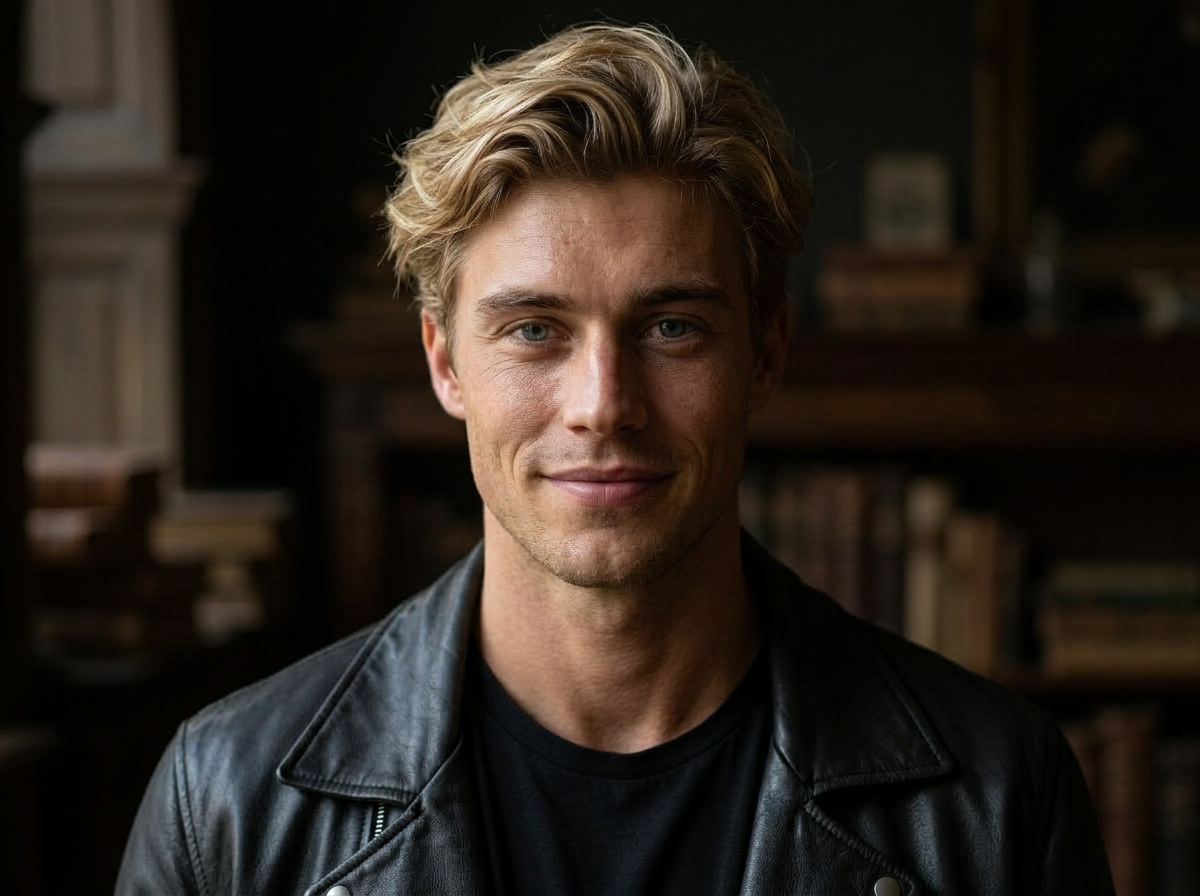
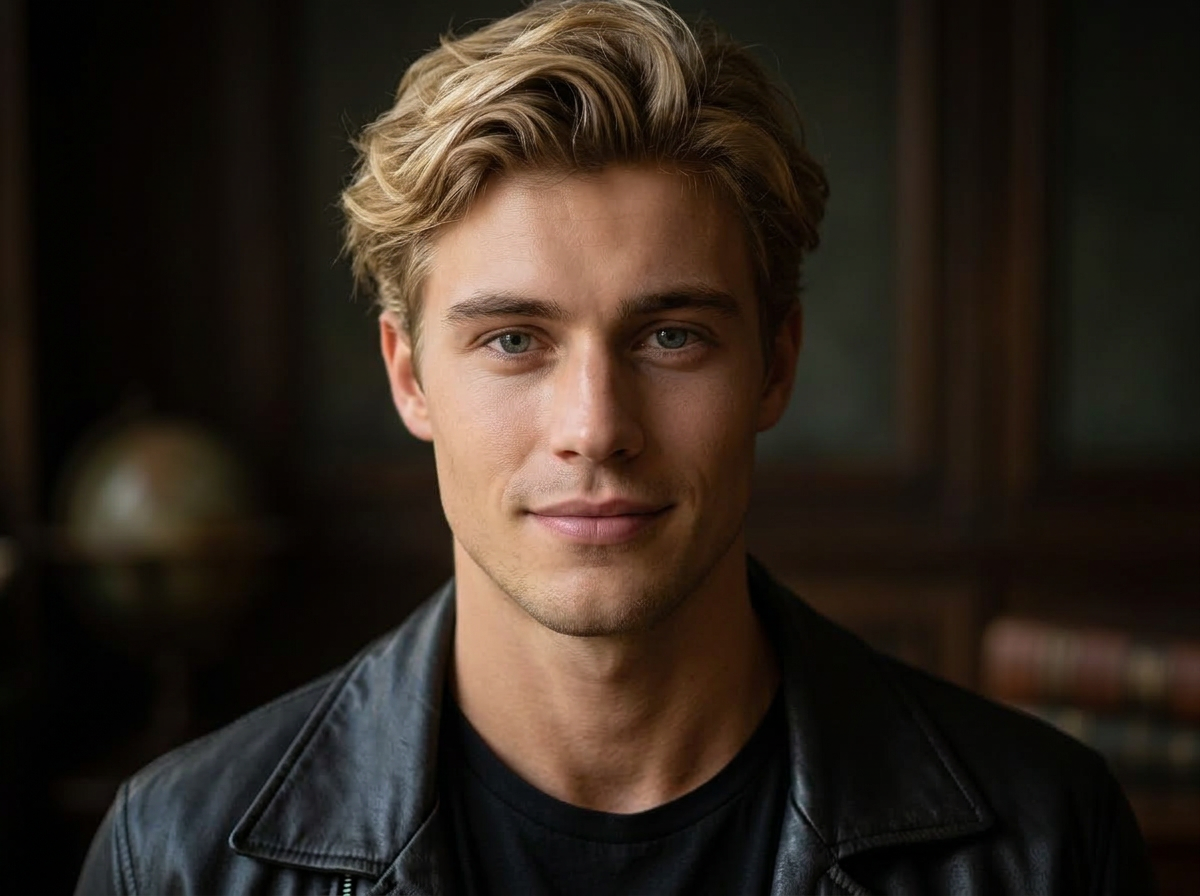
New Liam photo + redesign character cards: bigger portraits, minimal overlay, 3-col grid

diff --git a/src/pages/P01_CharacterSelect.jsx b/src/pages/P01_CharacterSelect.jsx
@@ -8,7 +8,7 @@ export default function P01_CharacterSelect() {
 
   return (
     <PageShell pageIndex={1}>
-      {/* Quick lore context */}
+      {/* Lore context */}
       <div className="mb-5 p-4 border border-border bg-surface/30 text-[13px] text-text-secondary leading-relaxed">
         <p className="mb-2">
           В книге <strong className="text-white">«Четвёртое Крыло»</strong> кадеты делятся на крылья и отряды. У каждого свой характер, свой дракон и свой способ выживать.
@@ -17,10 +17,12 @@ export default function P01_CharacterSelect() {
           <strong className="text-white"> Рианнон</strong> — та, к кому бежит весь отряд когда всё ломается.
         </p>
         <p className="text-text-dim italic text-[12px]">
-          Не читал(а) книгу? Не страшно — выбирай по описанию стиля. А потом, может, и прочитаешь.
+          Не читал(а) книгу? Не страшно — выбирай по стилю. А потом, может, и прочитаешь.
         </p>
       </div>
-      <div className="grid grid-cols-1 sm:grid-cols-2 gap-4">
+
+      {/* Character grid — 2 columns, photo dominant */}
+      <div className="grid grid-cols-2 sm:grid-cols-3 gap-3">
         {CHARACTERS.map(c => {
           const isSelected = characterId === c.id
 
@@ -28,60 +30,43 @@ export default function P01_CharacterSelect() {
             <button
               key={c.id}
               onClick={() => selectCharacter(c.id === characterId ? null : c.id)}
-              className={`group relative text-left overflow-hidden cursor-pointer transition-all duration-300 border ${
+              className={`group relative text-left overflow-hidden cursor-pointer transition-all duration-300 border flex flex-col ${
                 isSelected
-                  ? 'border-qa-teal ring-1 ring-qa-teal shadow-[0_0_30px_rgba(0,229,204,0.12)]'
+                  ? 'border-qa-teal ring-1 ring-qa-teal shadow-[0_0_24px_rgba(0,229,204,0.12)]'
                   : 'border-border hover:border-qa-teal/30'
               }`}
             >
-              {/* Top: Photo + Gradient + Name */}
-              <div className="relative h-48 sm:h-56 overflow-hidden">
+              {/* Portrait — large, clean, minimal overlay */}
+              <div className="relative aspect-[3/4] overflow-hidden">
                 <img
                   src={c.image}
                   alt={c.name}
                   className={`w-full h-full object-cover transition-transform duration-500 ${c.imagePosition || 'object-top'} ${
-                    isSelected ? 'scale-110' : 'group-hover:scale-[1.03]'
+                    isSelected ? 'scale-105' : 'group-hover:scale-[1.02]'
                   }`}
                 />
-                <div className="absolute inset-0 bg-gradient-to-t from-[#0A0A0A] via-[#0A0A0A]/60 to-transparent" />
 
-                {/* Selected badge */}
+                {/* Thin gradient — only at very bottom for name, keeps face visible */}
+                <div className="absolute bottom-0 left-0 right-0 h-16 bg-gradient-to-t from-black/90 to-transparent" />
+
+                {/* Selected checkmark */}
                 {isSelected && (
-                  <div className="absolute top-3 right-3 w-7 h-7 bg-qa-teal flex items-center justify-center">
-                    <span className="text-black text-sm font-bold">✓</span>
+                  <div className="absolute top-2 right-2 w-6 h-6 bg-qa-teal flex items-center justify-center">
+                    <span className="text-black text-xs font-bold">✓</span>
                   </div>
                 )}
 
-                {/* Name overlay */}
-                <div className="absolute bottom-0 left-0 right-0 p-4">
-                  <h3 className="font-display text-xl text-white leading-tight">{c.name}</h3>
-                  <div className="font-mono text-[11px] tracking-[3px] uppercase text-qa-teal mt-1">{c.title}</div>
+                {/* Name — small, at the very bottom */}
+                <div className="absolute bottom-0 left-0 right-0 px-3 pb-2">
+                  <h3 className="font-display text-sm sm:text-base text-white leading-tight truncate">{c.name}</h3>
+                  <div className="font-mono text-[10px] tracking-[2px] uppercase text-qa-teal">{c.title}</div>
                 </div>
               </div>
 
-              {/* Bottom: Full dossier */}
-              <div className="p-4 bg-surface/50 space-y-3">
-                {/* Dragon */}
-                <div className="flex items-center gap-2">
-                  <span className="text-sm">🐉</span>
-                  <span className="font-mono text-[12px] text-text-secondary">{c.dragon}</span>
-                </div>
-
-                {/* Trait */}
-                <p className="text-[14px] text-text-body font-medium leading-snug">{c.trait}</p>
-
-                {/* Match quote */}
-                <div className="p-3 bg-black/40 border-l-2 border-qa-teal/30">
-                  <p className="text-[13px] text-text-secondary italic leading-relaxed">
-                    «{c.match}»
-                  </p>
-                </div>
-
-                {/* Learning style */}
-                <div className="flex items-start gap-2">
-                  <span className="font-mono text-[11px] text-qa-teal shrink-0 mt-0.5">Стиль:</span>
-                  <span className="text-[13px] text-text-secondary">{c.style}</span>
-                </div>
+              {/* Compact info — only trait + match */}
+              <div className="p-3 bg-surface/50 flex-1 space-y-2">
+                <p className="text-[13px] text-text-body font-medium leading-snug">{c.trait}</p>
+                <p className="text-[11px] text-text-dim italic leading-relaxed">«{c.match}»</p>
               </div>
             </button>
           )
@@ -89,8 +74,8 @@ export default function P01_CharacterSelect() {
       </div>
 
       {characterId && (
-        <div className="text-center mt-5 p-3 border border-qa-teal/20 bg-qa-teal/[0.03]">
-          <p className="text-base text-qa-teal">
+        <div className="text-center mt-4 p-3 border border-qa-teal/20 bg-qa-teal/[0.03]">
+          <p className="text-sm text-qa-teal">
             ✦ {CHARACTERS.find(c => c.id === characterId)?.name}
           </p>
         </div>

diff --git a/src/data/characters.js b/src/data/characters.js
@@ -57,7 +57,7 @@ export const CHARACTERS = [
     style: 'Надёжный исполнитель. Доводит каждую задачу до конца.',
     emoji: '🛡',
     image: '/characters/liam.png',
-    imagePosition: 'object-[center_5%] scale-125',
+    imagePosition: 'object-[center_15%]',
   },
   {
     id: 'imogen',
